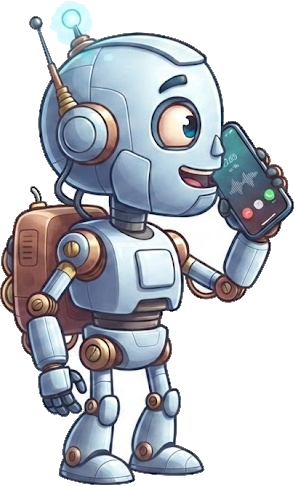
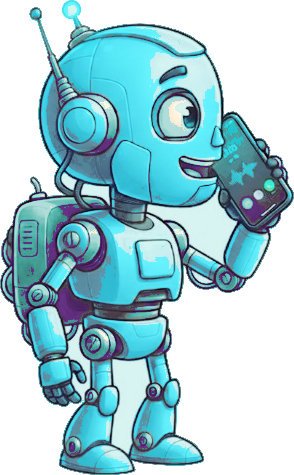
Recolor the hero robot to site teal and purple, with no brown.
Replace the copper accents and keep a clean transparent cutout in the same hero slot.

diff --git a/index.html b/index.html
@@ -76,7 +76,7 @@
               <div class="hero-robot-wrap">
                 <img
                   class="hero-robot-image"
-                  src="./assets/hero-robot-user-transparent.png?v=5"
+                  src="./assets/hero-robot-user-transparent.png?v=7"
                   alt="רובוט CALLBOT מדבר בטלפון"
                 />
               </div>
